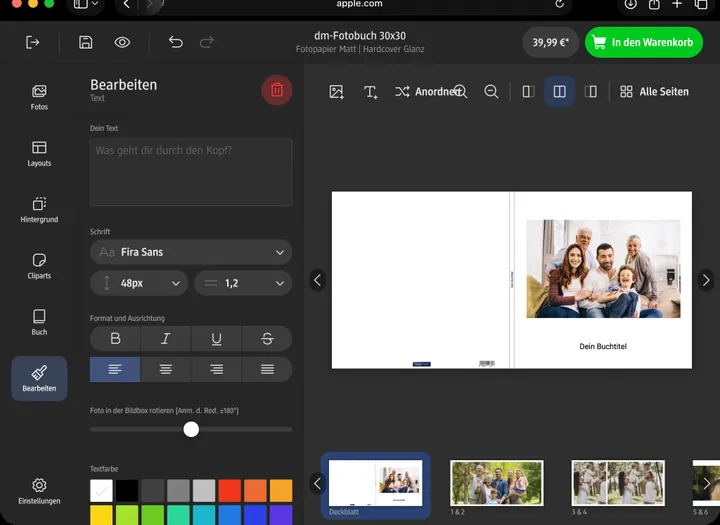
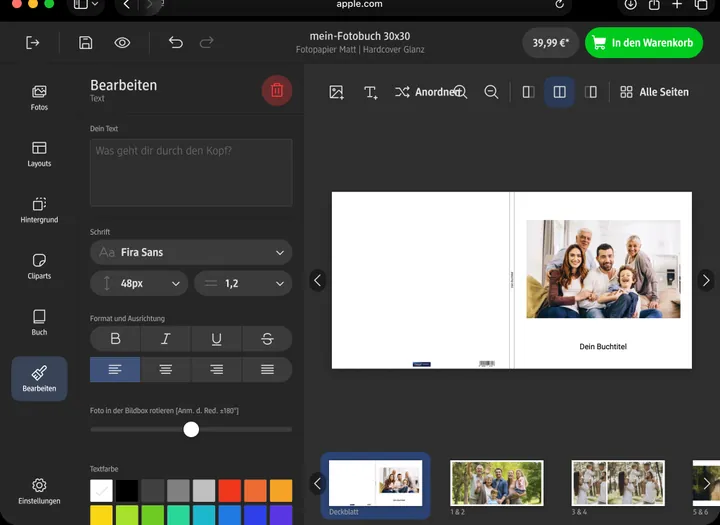
Rundgang screens: editor title reads mein-Fotobuch instead of dm-Fotobuch
Claude-Session: https://claude.ai/code/session_01M6UYtZP2r1APgZwrmcQ3F8

diff --git a/docs/STATUS.md b/docs/STATUS.md
@@ -55,6 +55,11 @@
   title and text as the line reaches it; plays once. Works in the row (desktop) and the column (≤860px), all
   browsers (no scroll-timeline needed). Reduced motion / no JS: everything shown at once.
 
+## Update 23.10.: no "dm" in the editor title
+- Rundgang screens: the editor title "dm-Fotobuch 30x30" now reads "mein-Fotobuch 30x30" (steps 1–4, both sizes).
+  Edited in the lossless Figma exports (original pixels of "m" and "-Fotobuch 30x30" kept, "ein" drawn in Fira
+  Sans to match), then re-exported as WebP q80 with the same crops. The Vorschau screen never showed it.
+
 ## Graphics still to come
 - **White Label** (`04-brand.astro`): mini editor is HTML/CSS on purpose (it re-themes live). Keep, or swap the
   calendar for a real render.
